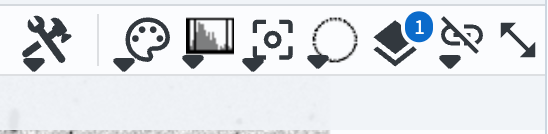
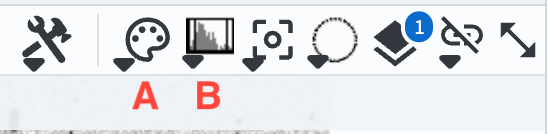
Separate out selection tools

Changed region(s): [[0.3412, 0.597, 0.4033, 0.8358], [0.2172, 0.597, 0.3102, 0.8358]]

diff --git a/docs/tutorials/portal/105/portal-105-2.rst b/docs/tutorials/portal/105/portal-105-2.rst
@@ -8,7 +8,7 @@ For the Portal Aspect of the Rubin Science Platform at data.lsst.cloud.
 
 **Data Release:** DP2
 
-**Last verified to run:** 2026-09-17
+**Last verified to run:** 2026-09-29
 
 **Learning objective:** Use the components of the Firefly image viewer.
 
@@ -65,7 +65,7 @@ The coadd image planes are:
 
 - IMAGE (HDU #1) -- the deep coadd image.
 - MASK (HDU #2) -- the mask plane showing pixels that have been masked for various reasons.
-- VARIANCE (HDU #3) -- the variance plane corresponding to the pixel variance (in nJy<sup>2</sup>).
+- VARIANCE (HDU #3) -- the variance plane corresponding to the pixel variance (in nJy\ :sup:`2`).
 - MASK_FRACTION (HDU #4) -- the fraction of input visit images that were masked.
 - NOISE_REALIZATION (HDU #5) -- a noise realization to be used for shear measurements.
 - BACKGROUND/FIELDS/PRETTY/DATA (HDU #10) -- the difference between the deep coadd background and the "pretty coadd" background. Restoring this will roughly reproduce the "pretty coadds" that are used in the HiPS maps.
@@ -83,15 +83,15 @@ The result should appear as in Figure 4.
 
 .. figure:: images/portal-105-2-3.png
     :name: portal-105-2-3
-    :alt: The buttons to cycle through image planes.
+    :alt: The buttons in the Tools drop down menu, including labeled buttons for image rotation, setting North to be up, flipping the image in the X direction, and restoring the display defaults.
 
-    Figure 3: The buttons to cycle through image planes in Firefly. They appear above the displayed image.
+    Figure 3: The Tools drop-down menu. Labeled buttons are tools to (A) rotate the image by a specified angle, (B) rotate the image so that North is up, (C) flip the image across the Y axis, and (D) restore the display to the defaults.
 
 .. figure:: images/portal-105-2-4.png
     :name: portal-105-2-4
-    :alt: The buttons to cycle through image planes.
+    :alt: An image rotated by 135 degrees, with the image rotation tool interface shown.
 
-    Figure 3: The buttons to cycle through image planes in Firefly. They appear above the displayed image.
+    Figure 4: A deep coadd image that has been rotated to an angle of 135 degrees East of North, as can be seen in the inset interface to the image rotation tool.
 
 To restore the image to its original orientation with North up and East to the left, click the button with an up arrow pointing to a letter "N" (labeled "B" in Figure 3).
 
@@ -100,9 +100,9 @@ Now click on the "flip" button (labeled "C" in Figure 3) to flip the image in th
 
 .. figure:: images/portal-105-2-5.png
     :name: portal-105-2-5
-    :alt: The buttons to cycle through image planes.
+    :alt: A deep coadd image that has been flipped in the X direction so that East now points to the right.
 
-    Figure 3: The buttons to cycle through image planes in Firefly. They appear above the displayed image.
+    Figure 5: A deep coadd image that has been flipped in the X direction. The compass at upper left shows that East now points to the right, whereas the default display shows East to the left.
 
 To return to the original view, click the "Restore to the defaults" button in the Tools menu (labeled "D" in Figure 3).
 
@@ -119,13 +119,13 @@ The "Bias" and "Contrast" parameters can be manually adjusted using the sliders 
     :name: portal-105-2-6
     :alt: The buttons to access dropdown menus for color and image scaling.
 
-    Figure 6: The buttons to cycle through image planes in Firefly. They appear above the displayed image.
+    Figure 6: The buttons to access various tools menus. The drop-down menu for selecting color maps is labeled "A", and the menu to control the image stretch is labeled "B".
 
 .. figure:: images/portal-105-2-7.png
     :name: portal-105-2-7
-    :alt: The colorbar options.
+    :alt: The menu showing various colorbar options. The "plasma" colormap is selected, as can be seen by the image in the backdrop, which has a mostly blue and purple background with astronomical sources in orange/red.
 
-    Figure 7: The buttons to cycle through image planes in Firefly. They appear above the displayed image.
+    Figure 7: The Color drop-down menu, showing the various colormaps that are available. The "plasma" colormap is selected, and the underlying image is displayed with that colormap.
 
 The image "stretch" can be changed using the "Stretch drop down" icon that looks like a histogram plot (labeled "B" in Figure 6).
 Reset the colormap to the default ("Reverse Gray Scale").

diff --git a/docs/tutorials/portal/105/portal-105-1.rst b/docs/tutorials/portal/105/portal-105-1.rst
@@ -8,7 +8,7 @@ For the Portal Aspect of the Rubin Science Platform at data.lsst.cloud.
 
 **Data Release:** DP2
 
-**Last verified to run:** 2026-09-11
+**Last verified to run:** 2026-09-29
 
 **Learning objective:** Navigate the multi-panel interface for image data results.
 
@@ -18,7 +18,7 @@ For the Portal Aspect of the Rubin Science Platform at data.lsst.cloud.
 Please consider acknowledging them if this tutorial is used for the preparation of journal articles, software releases, or other tutorials.
 DOI: `10.11578/rubin/dc.20250909.20 <https://doi.org/10.11578/rubin/dc.20250909.20>`_
 
-**Get Support:** Everyone is encouraged to ask questions or raise issues in the `Support Category <https://community.lsst.org/c/support/6>`_ of the Rubin Community Forum.
+**Get Support:** Everyone is encouraged to ask questions or raise issues in the `Support Category <https://www.rubin.community/c/support/6>`_ of the Rubin Community Forum.
 Rubin staff will respond to all questions posted there.
 
 ----

diff --git a/docs/tutorials/portal/105/portal-105-3.rst b/docs/tutorials/portal/105/portal-105-3.rst
@@ -8,7 +8,7 @@ For the Portal Aspect of the Rubin Science Platform at data.lsst.cloud.
 
 **Data Release:** DP2
 
-**Last verified to run:** 2026-09-11
+**Last verified to run:** 2026-09-29
 
 **Learning objective:** Add overlays to images displayed in Firefly.
 
@@ -19,7 +19,7 @@ Please consider acknowledging them if this tutorial is used for the preparation 
 DOI: `10.11578/rubin/dc.20250909.20 <https://doi.org/10.11578/rubin/dc.20250909.20>`_
 
 
-**Get Support:** Everyone is encouraged to ask questions or raise issues in the `Support Category <https://community.lsst.org/c/support/6>`_ of the Rubin Community Forum.
+**Get Support:** Everyone is encouraged to ask questions or raise issues in the `Support Category <https://www.rubin.community/c/support/6>`_ of the Rubin Community Forum.
 Rubin staff will respond to all questions posted there.
 
 ----
